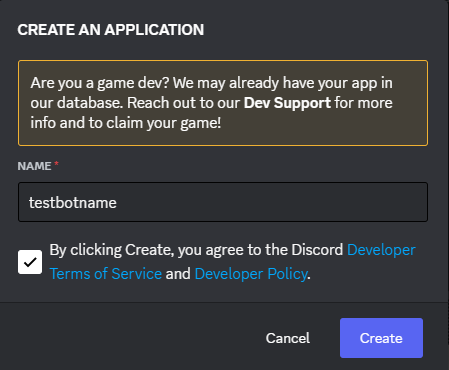
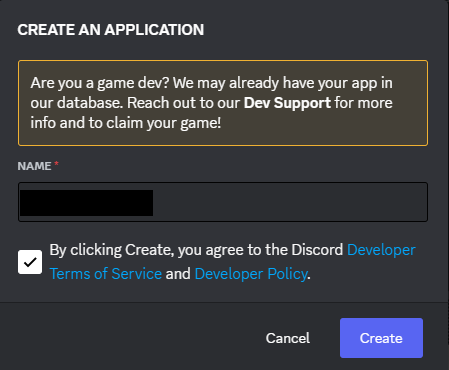
Feature/suzuki/readme (#1)
* 画像差し替え

* クローン後のディレクトリ変更

Changed region(s): [[0.0312, 0.5054, 0.343, 0.5946]]

diff --git a/Readme.md b/Readme.md
@@ -145,7 +145,7 @@ VS Codeのターミナルで以下のコードを実行する
    git clone https://github.com/dir-tajiisam/discord-bot-sample
    ```
    ```ps
-   cd ./discordbot_keisyu
+   cd ./discord-bot-sample
    ```
 #### 4-1-4. 仮想環境にライブラリをインストールする
    ```ps
